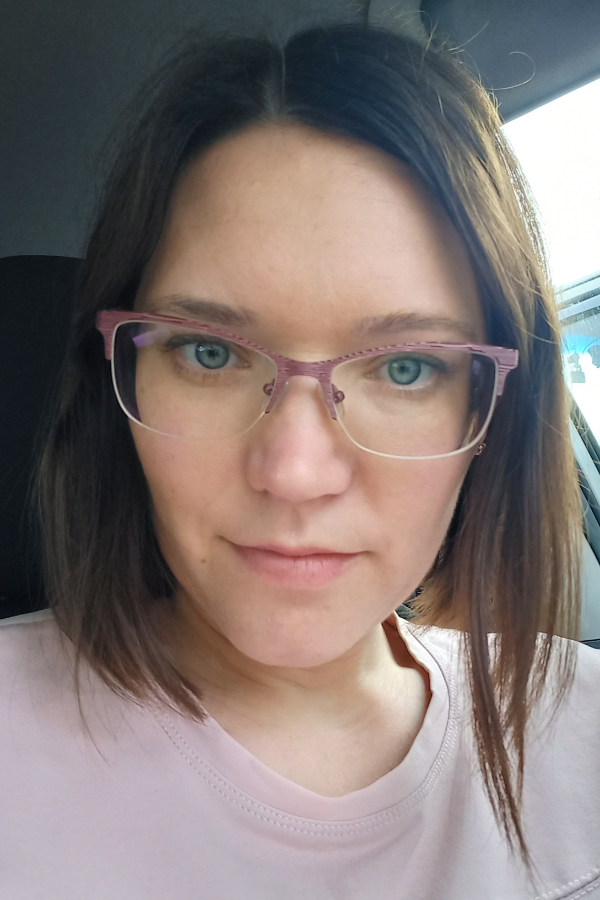
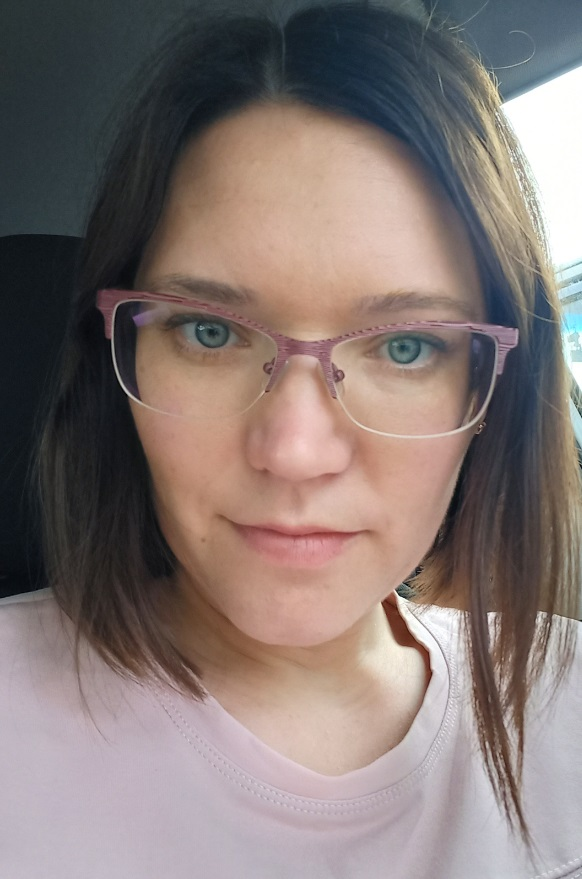
Reorganized the about content

diff --git a/about.html b/about.html
@@ -34,21 +34,24 @@
     <title>Document</title>
   </head>
   <body>
-    <div class="about-section">
-      <div class="col-6">
-        <h1>Hello, I am Hanna Torianyk</h1>
-        <h2 class="mb-3">Front-end developer based in Ukrane</h2>
-        <p>
-          I want to be part of a friendly and professional team where I can
-          develop my development skills to achieve team results
-        </p>
-      </div>
-      <div class="col-6">
-        <img
-          src="images/20.jpg"
-          class="img-fluid rounded"
-          alt="photo Hanna Torianyk"
-        />
+    <div class="about-section container">
+      <div class="row">
+        <div class="col-lg-6">
+          <h1 class="mb-4">Hello, I am Hanna Torianyk</h1>
+          <h2 class="mb-4">Front-end developer based in Ukrane</h2>
+          <p class="mb-4">
+            I want to be part of a friendly and professional team where I can
+            develop my development skills to achieve team results.
+          </p>
+          <a href="" class="btn primary-link">See my projects</a>
+        </div>
+        <div class="col-lg-6">
+          <img
+            src="images/20.jpg"
+            class="img-fluid rounded w-50 foto"
+            alt="photo Hanna Torianyk"
+          />
+        </div>
       </div>
     </div>
   </body>

diff --git a/style/style.css b/style/style.css
@@ -24,18 +24,22 @@ body {
 }
 
 .about-section {
-  padding: 150px 15px;
+  padding: 160px 20px;
+}
+
+.foto {
+  display: block;
+  margin: 0 auto;
 }
 
 .about-section h1 {
   font-size: 64px;
-  font-weight: bold;
+  line-height: 80px;
+  font-family: var(--heading-font-family);
 }
 
 .about-section h2 {
   font-size: 18px;
-  font-weight: bold;
-  margin: 30px 0;
 }
 
 .about-section p {
